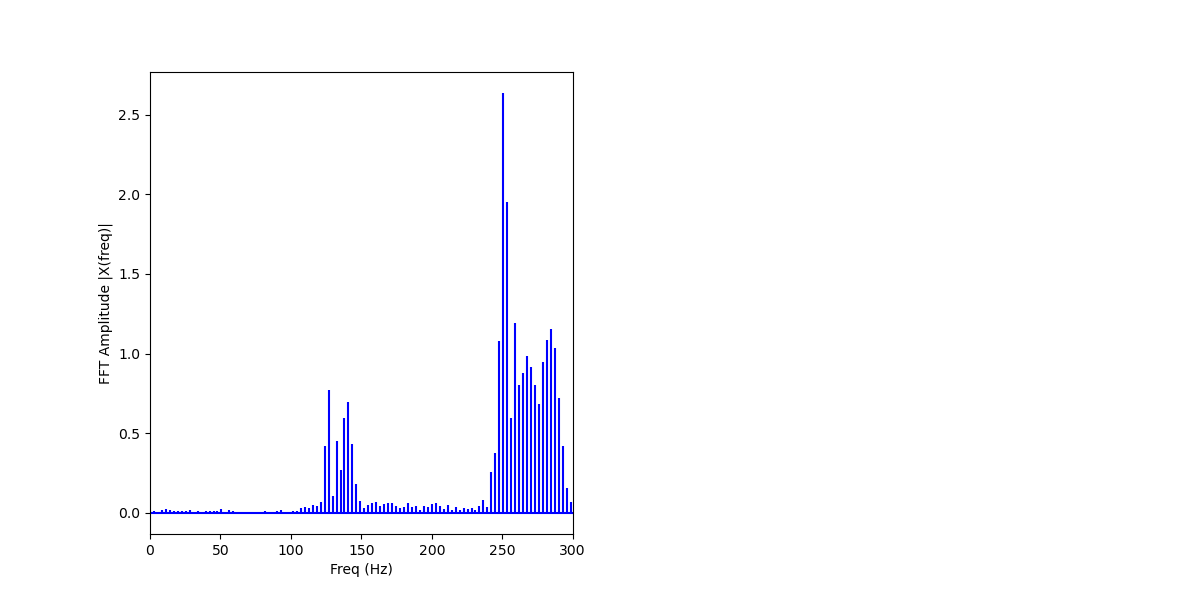
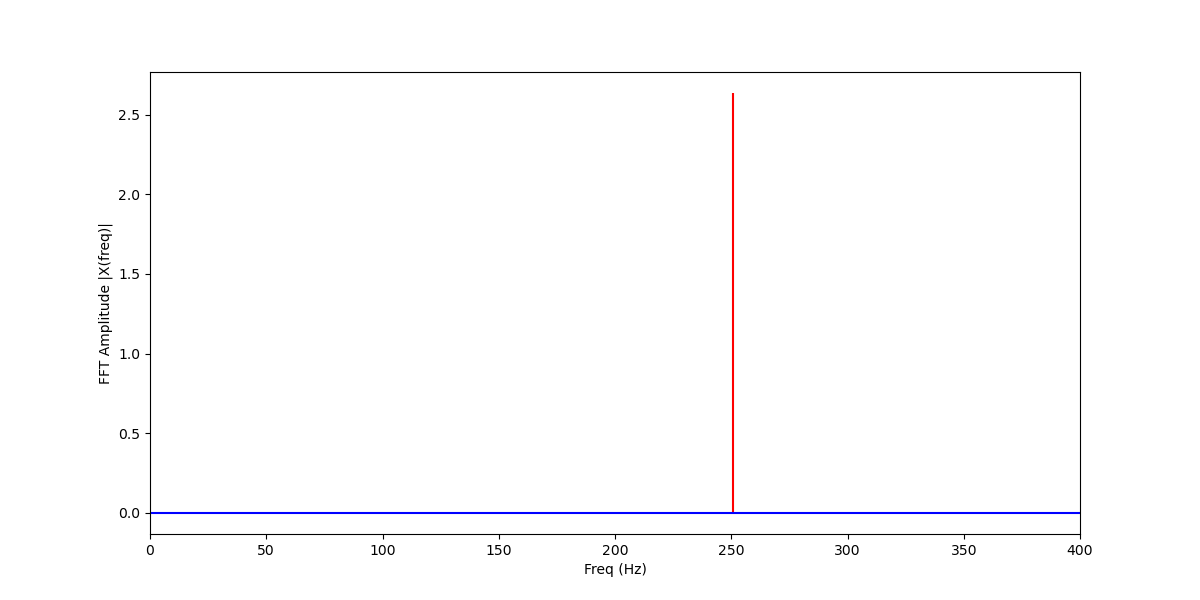
added comments

diff --git a/numpy_fft.py b/numpy_fft.py
@@ -12,7 +12,7 @@ def mod_plots(name):
     t = np.arange(0, 1, ts)
 
     x, sr = librosa.load('recordings/{}.m4a'.format(name), sr = sr)
-    arr = np.where(x >= 0.01)
+    arr = np.where(x >= 0.01) #thresholding the signal to find values that contain speech
 
     # librosa.display.waveshow(x[arr[0][0]:arr[0][-1]], sr = sr)
     # plt.title("Waveform: {}".format(name))
@@ -22,19 +22,19 @@ def mod_plots(name):
 
     x = x[arr[0][0]:arr[0][-1]]
 
-    vals = fft(x)
+    vals = fft(x) # FFT of signal
     length = len(vals)
-
-    print(length)
 
     n = np.arange(length)
     T = length/sr
 
-    freq_bins = fftfreq(len(vals))[108] ## MAX FREQUENCY
-    print("MAX: {}".format(np.abs(freq_bins*sr)))
+    freq_bins = fftfreq(len(vals))[np.argmax(np.abs(vals))] #finds the bin placement of the highest frequency
+    MAX = np.abs(freq_bins*sr)
+    max_freq[name] = MAX
+    print("{} MAX: {}".format(name, MAX)) #most prevalent frequency
 
     freq = n/T
-    print("FREQ: {}".format(freq))
+    # print("FREQ: {}".format(freq))
 
     # print(np.max(np.abs(vals)))
     m_ind = np.argmax(np.abs(vals))
@@ -54,17 +54,17 @@ def mod_plots(name):
     # plt.subplot(121)
 
     # plt.stem(freq, np.abs(vals), 'b', markerfmt=" ", basefmt="-b")
-    plt.stem(freq, np.abs(v2), 'r', markerfmt=" ", basefmt="-b")
+    plt.stem(freq, np.abs(v2), 'r', markerfmt=" ", basefmt="-b") #graphing the max frequency in FFT for testing purposes
     plt.xlabel('Freq (Hz)')
     plt.ylabel('FFT Amplitude |X(freq)|')
-    plt.xlim(0, sr/2) #Nyquist-Shannon and aliasing
+    plt.xlim(0, sr/2) #Nyquist-Shannon and aliasing - disregard frequencies above sr/2
     plt.savefig('graphs/FFT/{}.png'.format(name))
     plt.show()
     # print(vals)
 
 if __name__ == "__main__":
-    # mod_plots('sahil')
+    mod_plots('sahil')
     mod_plots("ria")
-    # mod_plots("alex")
-    # mod_plots("anshul")
-    # print(max_freq)
+    mod_plots("alex")
+    mod_plots("anshul")
+    print(max_freq)
